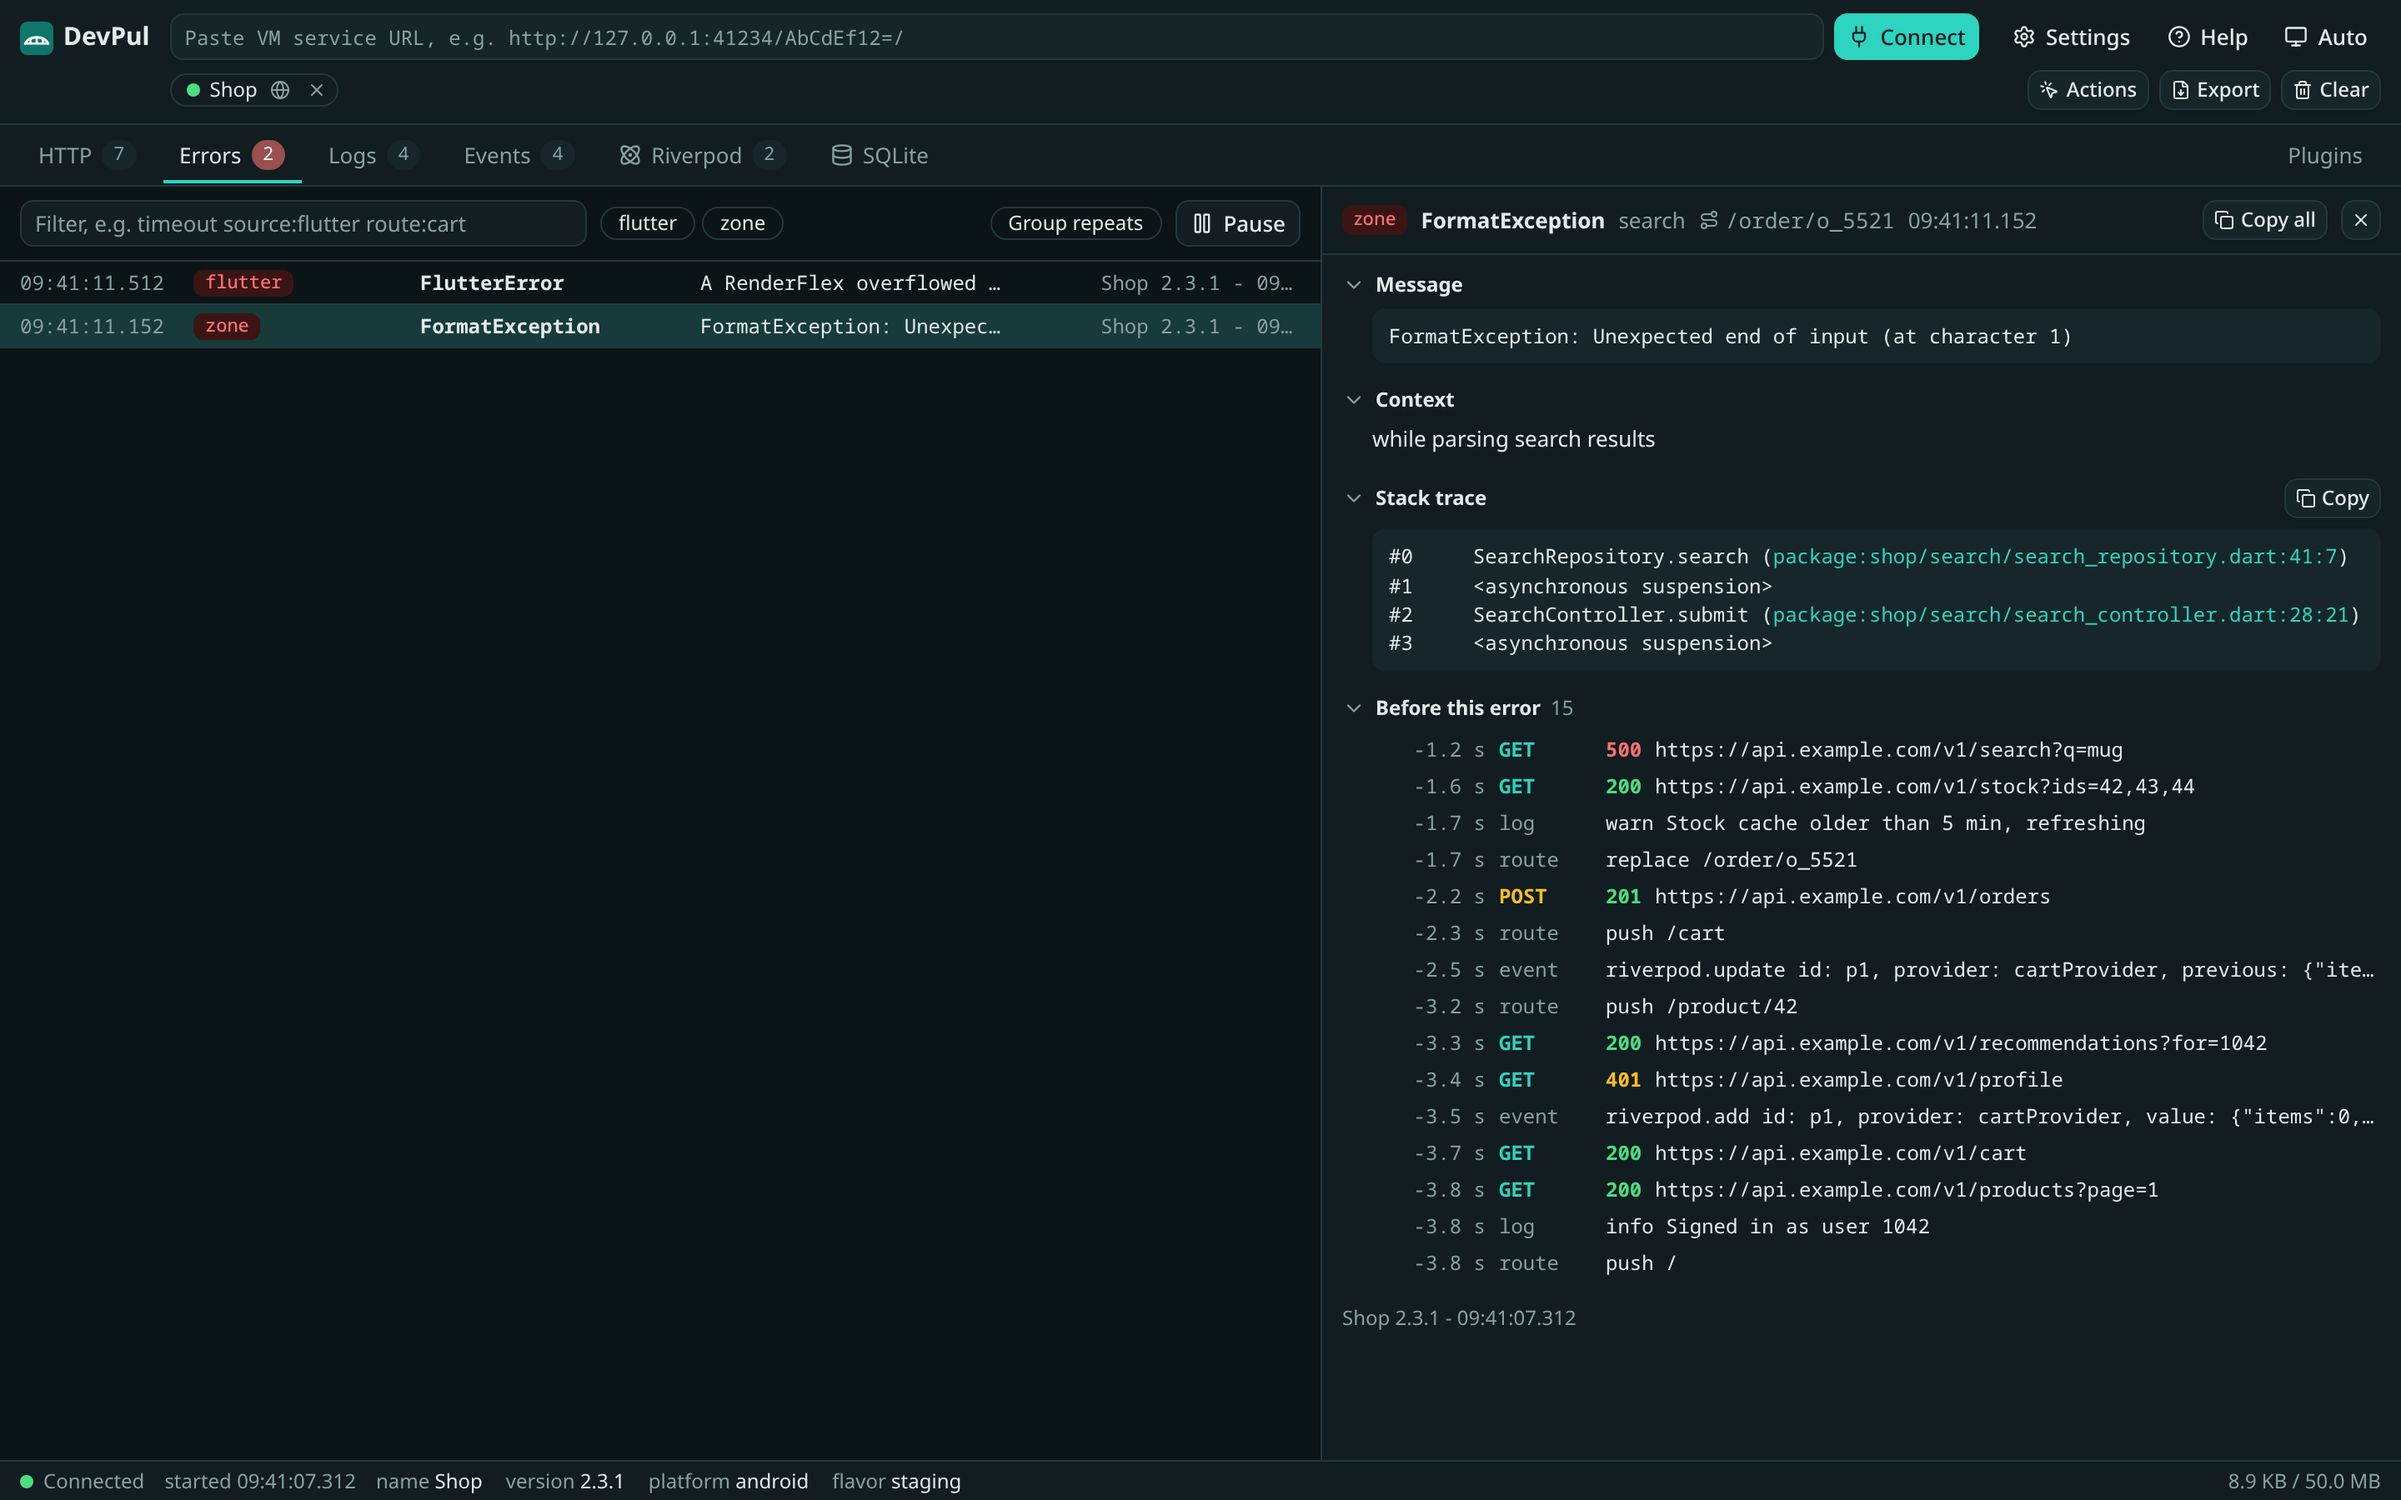
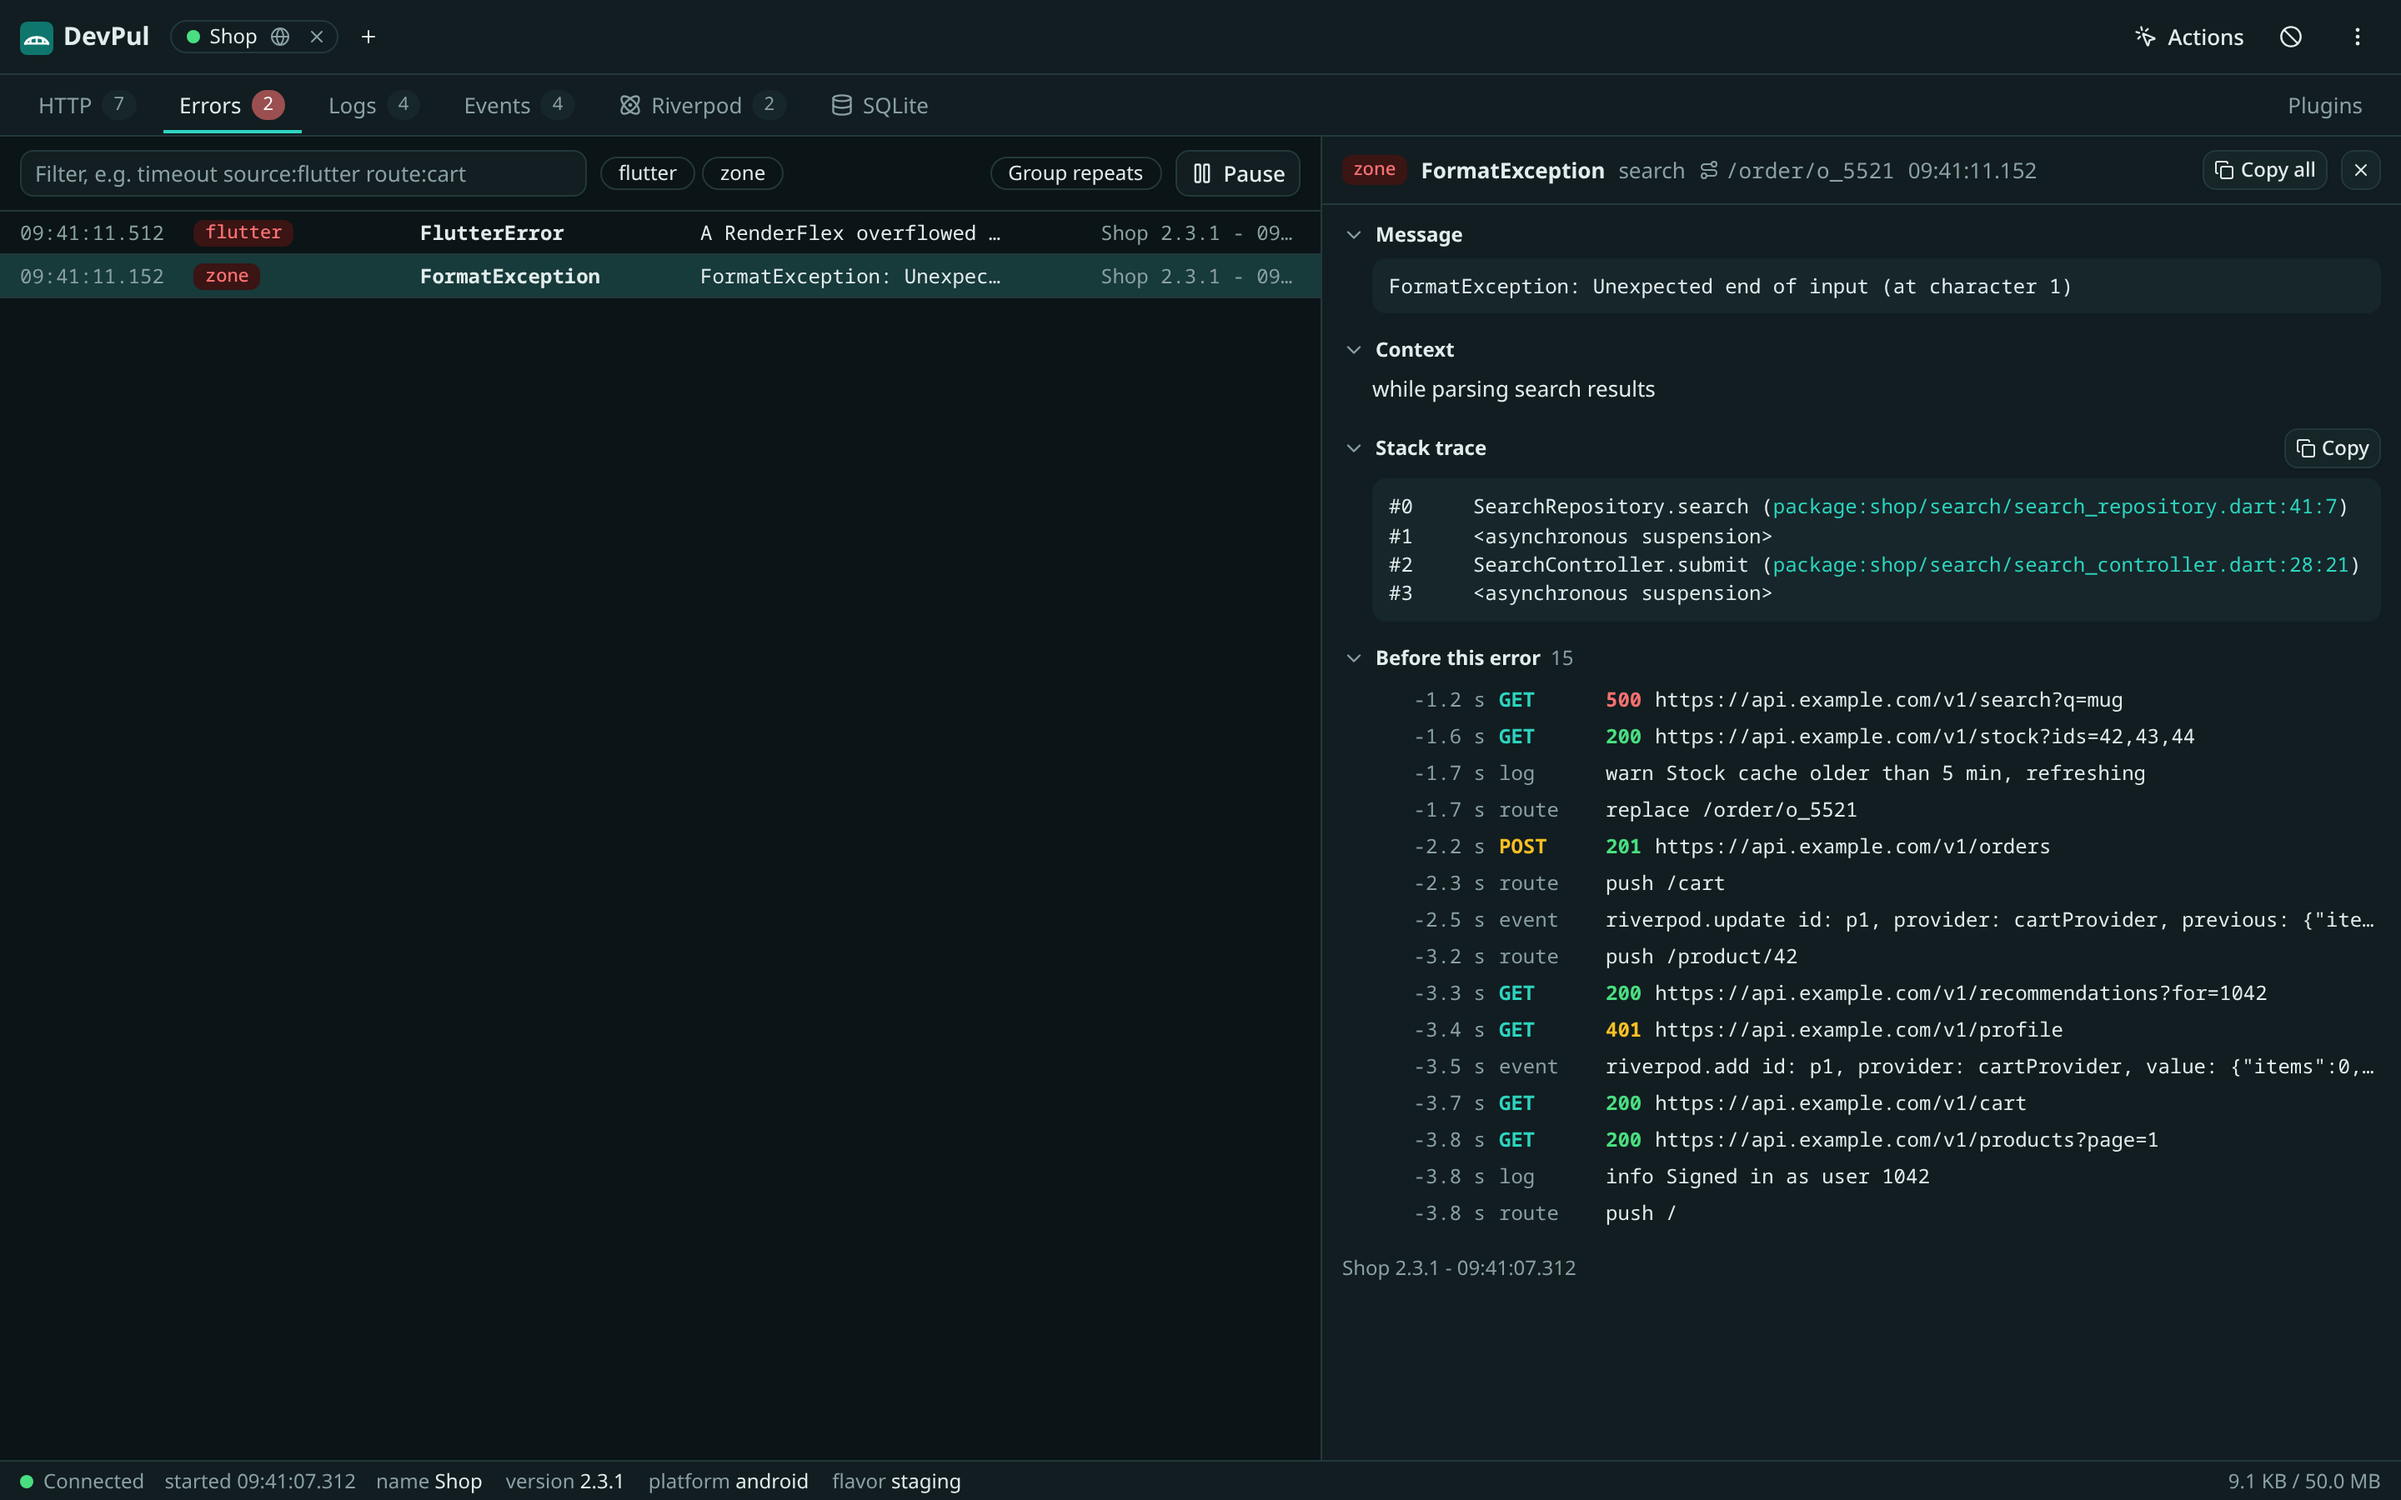
Start the session animation connected and shoot the packaged home

diff --git a/apps/ui/e2e/screenshots.ts b/apps/ui/e2e/screenshots.ts
@@ -6,7 +6,7 @@ import { copyFileSync, mkdirSync, mkdtempSync, readdirSync, readFileSync, rmSync
 import { tmpdir } from 'node:os';
 import { basename, join } from 'node:path';
 import { chromium, type Locator, type Page } from '@playwright/test';
-import { preview } from 'vite';
+import { type Plugin, preview } from 'vite';
 import { backlog, session, start, vmOptions } from './scene.ts';
 import { FakeVm } from './vm.ts';
 
@@ -27,10 +27,24 @@ for (const tool of ['cwebp', 'img2webp']) {
 rmSync(dir, { recursive: true, force: true });
 mkdirSync(dir, { recursive: true });
 
+// The home as devpul serves it; the site's own home shows these shots. Served here, not through a
+// Playwright route: Chromium blocks websockets to 127.0.0.1 from a page it does not know came from there.
+const packaged: Plugin = {
+  name: 'devpul-package',
+  configurePreviewServer: (server) => {
+    server.middlewares.use((req, res, next) => {
+      if (req.url !== '/') return next();
+      const html = readFileSync(join(import.meta.dirname, '../dist/index.html'), 'utf8');
+      res.setHeader('content-type', 'text/html');
+      res.end(html.replace('<head>', '<head><meta name="devpul-package" />'));
+    });
+  },
+};
 const server = await preview({
   root: join(import.meta.dirname, '..'),
   logLevel: 'warn',
   preview: { host: '127.0.0.1', port: 4175 },
+  plugins: [packaged],
 });
 const base = server.resolvedUrls?.local[0] ?? 'http://127.0.0.1:4175/';
 const browser = await chromium.launch();
@@ -112,7 +126,7 @@ async function shot(page: Page, name: string) {
 // A pointer drawn into the page, since screenshots leave the real one out.
 const POINTER = `<svg xmlns="http://www.w3.org/2000/svg" width="20" height="20" viewBox="0 0 24 24"><path d="M4 2l16 10-7 1.5L9.5 21z" fill="#111" stroke="#fff" stroke-width="1.5" stroke-linejoin="round"/></svg>`;
 
-/** Frames of a session: connect, requests arriving, a request opened, an error. */
+/** Frames of a session: requests arriving, a request opened, an error. */
 async function animation(scheme: Scheme) {
   const first = start();
   const vm = await FakeVm.start(vmOptions(first));
@@ -162,16 +176,16 @@ async function animation(scheme: Scheme) {
   };
 
   try {
-    await point(at.x, at.y);
-    await frame(1200);
-    await page.getByLabel('VM service URL').fill(vm.url);
-    await frame(500);
-    await click(page.getByRole('button', { name: 'Connect' }));
+    // Opened connected, as devpul run opens it. A hash change alone stays on the same document.
+    await page.goto('about:blank');
+    await page.goto(`${base}#connect=${encodeURIComponent(vm.url)}`);
     // The offers are for the stills; the animation shows the core tabs.
     const notNow = page.getByRole('alert').getByRole('button', { name: 'Not now' });
     await notNow.first().waitFor();
     while ((await notNow.count()) > 0) await notNow.first().click();
-    await frame(600);
+    await page.mouse.move(0, 0);
+    await point(at.x, at.y);
+    await frame(1200);
     const steps = session(first.length);
     for (const events of steps.slice(0, -1)) {
       for (const e of events) vm.post(e);
